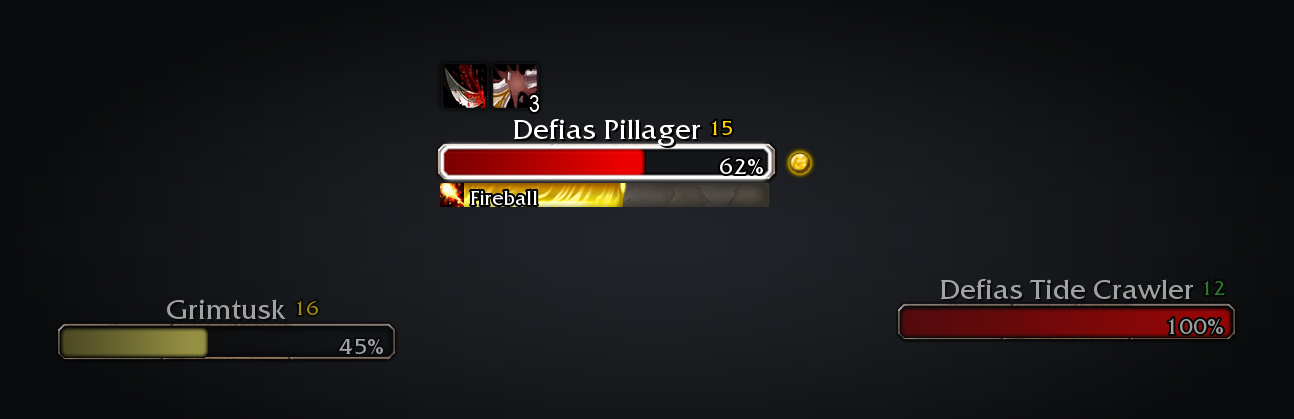
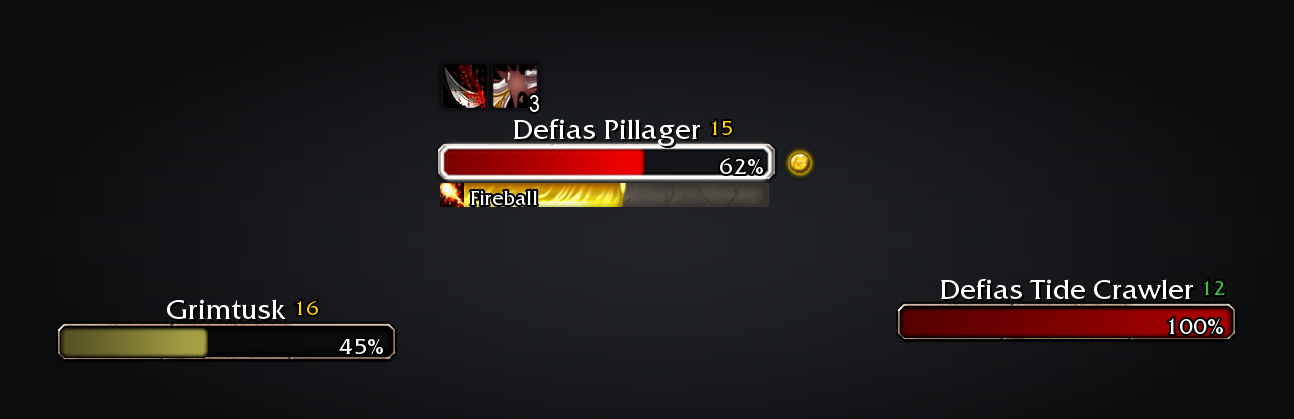
fix(nameplates): darken the other bars instead of fading whole plates
Larger, clearer nameplates set every plate but the target and focus to
0.6 alpha. The engine already fades the nameplate itself for distance
and for units behind terrain, and our alpha multiplied with it, so far
or occluded enemies became hard to see. The unit frame's alpha is no
longer touched: the bar's own deselected overlay darkens every plate
that is neither the target nor the focus, as Blizzard's non-Classic
styles do. The hook that only re-applied our alpha is gone.

Closes #447

Claude-Session: https://claude.ai/code/session_01BVTqQ2XG6h8h8aPeCjReBD

Changed region(s): [[0.711, 0.6516, 0.9583, 0.8067], [0.1236, 0.7136, 0.2473, 0.7757], [0.2473, 0.7757, 0.3091, 0.8687]]

diff --git a/tools/screenshots.py b/tools/screenshots.py
@@ -570,8 +570,9 @@ def editmode(ui):
 
 
 # UI/Nameplates.lua at the Medium size: a 190-wide plate less Blizzard's 12 inset each side, health 16 over a 2 gap
-# and a 12 cast bar, name and level 4 above the bar, the selection outline on the target, the others at 0.6 alpha.
-PLATE_W, PLATE_HEALTH, PLATE_CAST, PLATE_GAP, PLATE_DIMMED = 166, 16, 12, 2, 0.6
+# and a 12 cast bar, name and level 4 above the bar, the target outlined and every other plate's bar darkened by
+# Blizzard's own deselected overlay.
+PLATE_W, PLATE_HEALTH, PLATE_CAST, PLATE_GAP = 166, 16, 12, 2
 QUEST_ICON, QUEST_GAP = 20, 4
 HOSTILE, ROGUE = (1.0, 0.0, 0.0), (1.0, 0.96, 0.41)
 FAIR, EASY = (1.0, 0.82, 0.0), (0.25, 0.75, 0.25)
@@ -617,6 +618,10 @@ def nameplate(ui, name, level, level_colour, colour, health, target, cast, debuf
     c.draw(ui.atlas("UI-HUD-CoolDownManager-Bar"), x, y, w * health, PLATE_HEALTH, color=(*colour, 1))
     if target:
         c.draw(ui.atlas("UI-HUD-Nameplates-Selected"), x - 3, y - 4, w + 6, PLATE_HEALTH + 7)
+    else:
+        # Blizzard's own darkening of a bar that is neither the target nor the focus, 1 beyond the bar's top and
+        # bottom as its XML anchors it.
+        c.draw(ui.atlas("ui-hud-nameplates-deselected-overlay"), x, y - 1, w, PLATE_HEALTH + 2)
     if quest:
         # Quests/QuestProgress.lua: the 20-square questobjective atlas 4 right of the health bar, centred on it.
         c.draw(
@@ -667,8 +672,6 @@ def nameplate(ui, name, level, level_colour, colour, health, target, cast, debuf
         c.draw(ui.atlas("ui-castingbar-pip"), x + w * progress - 2, cast_y, 4, PLATE_CAST)
         spell_icon(ui, c, fdid, x, cast_y, PLATE_CAST)
         c.text(x + PLATE_CAST + 3, cast_y, spell, Font(FRIZQT, 10, (1, 1, 1), None, True), box_height=PLATE_CAST)
-    if not target:
-        c.image.putalpha(c.image.getchannel("A").point(lambda a: round(a * PLATE_DIMMED)))
     return c
 
 

diff --git a/docs/features.md b/docs/features.md
@@ -73,7 +73,7 @@ All off until you turn them on, except faster auto loot.
 - Unspent talent reminder. A soft glow over the talents button while you have unspent talent points, or your pet has unspent training points, until they are spent. Nothing in combat. On by default.
 - Modern tooltips: a thin grey border with rounded corners in place of the beige one, over a neutral charcoal that keeps the text crisp over any scenery. Tooltip style switches to the retail game's navy, or keeps the game's own border. A player's name is in their class colour, with the guild in brackets, race and class on one line and the faction in its colour. A unit's health bar sits inside its tooltip in the retail game's own bar and frame, in class or reaction colour, with health as numbers for players and a percentage for others, and a comparison tooltip's Equipped label moves inside it in grey. On by default.
 - Tooltip at the cursor (off by default). The game's own tooltips follow the mouse cursor instead of the game's fixed corner. Tooltips a window places itself, such as a bag item's, stay where it puts them.
-- Larger, clearer nameplates. A taller health bar in the retail game's own frame, with the full name centred above it and the level, coloured by difficulty, after the name. Your target is outlined in white and your focus in gold, and the other plates fade back while you have one. Casts show in a slim bar with the spell's icon and name inside, grey with a shield when they can't be interrupted. Health numbers inside the bar follow the game's own Nameplates options. Friendly plates in dungeons are the game's own and can't be restyled. On by default; turning it off takes effect after a reload.
+- Larger, clearer nameplates. A taller health bar in the retail game's own frame, with the full name centred above it and the level, coloured by difficulty, after the name. Your target is outlined in white and your focus in gold, and the other plates' bars are slightly darker. Casts show in a slim bar with the spell's icon and name inside, grey with a shield when they can't be interrupted. Health numbers inside the bar follow the game's own Nameplates options. Friendly plates in dungeons are the game's own and can't be restyled. On by default; turning it off takes effect after a reload.
 
 ## Fishing
 

diff --git a/CHANGELOG.md b/CHANGELOG.md
@@ -12,6 +12,7 @@ optional `### For addon authors` subsection after a version's player bullets.
 
 ## [Unreleased]
 
+- **Nameplates no longer fade.** Plates other than your target now darken their bar slightly, as Blizzard's own nameplates do, instead of turning see-through, so far-off enemies and enemies behind terrain no longer become hard to see.
 
 ## [2.4.4] - 2026-11-10
 
